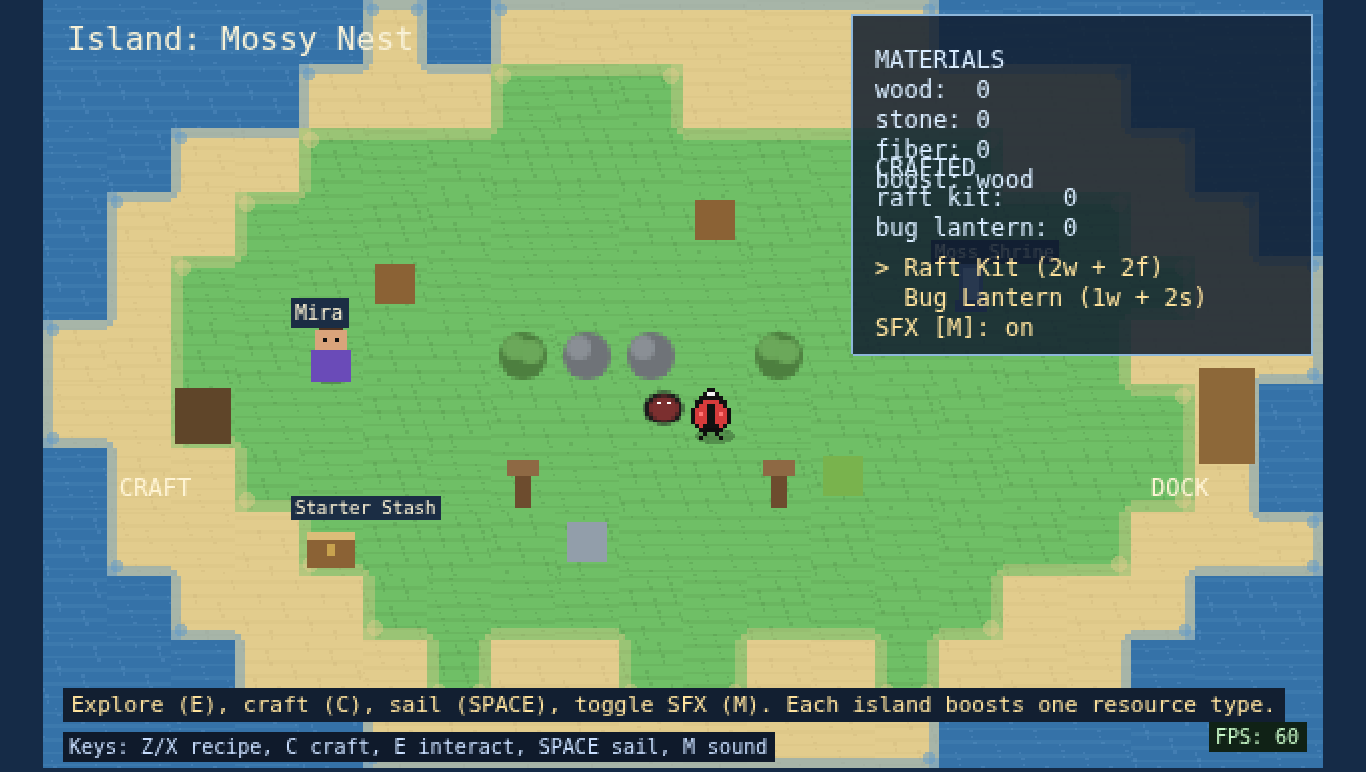
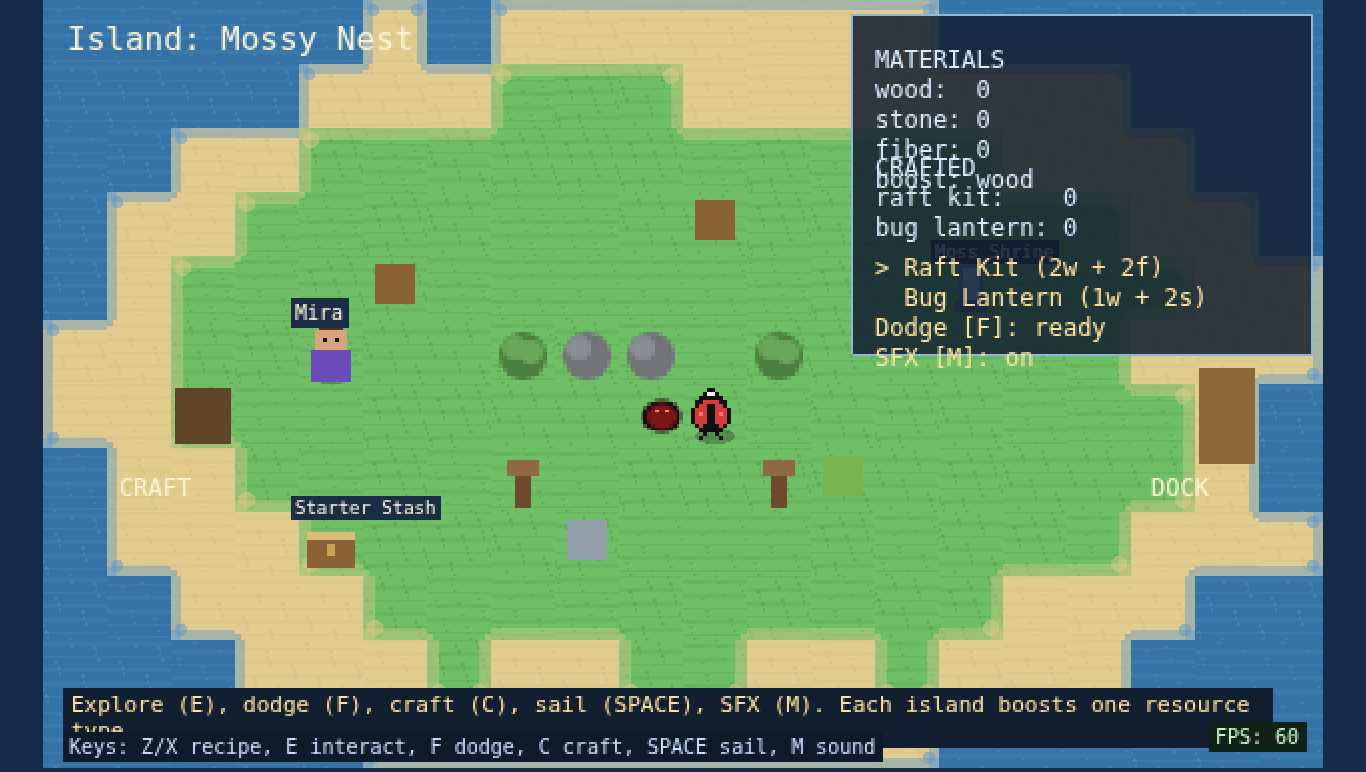
Add beetle telegraphing and player dodge mechanic

Changed region(s): [[0.0307, 0.9016, 0.9531, 0.9948], [0.6457, 0.4041, 0.8302, 0.4974], [0.4612, 0.4974, 0.5227, 0.5596]]

diff --git a/src/main.ts b/src/main.ts
@@ -74,7 +74,7 @@ type SaveData = {
   cameraZoom?: number
 }
 
-type TouchActionKey = 'interact' | 'craft' | 'travel'
+type TouchActionKey = 'interact' | 'craft' | 'travel' | 'dodge'
 type Biome = 'water' | 'beach' | 'grass'
 
 const TILE = 32
@@ -97,6 +97,7 @@ class AdventureScene extends Phaser.Scene {
   private interactKey!: Phaser.Input.Keyboard.Key
   private travelKey!: Phaser.Input.Keyboard.Key
   private craftKey!: Phaser.Input.Keyboard.Key
+  private dodgeKey!: Phaser.Input.Keyboard.Key
   private soundToggleKey!: Phaser.Input.Keyboard.Key
   private nextRecipeKey!: Phaser.Input.Keyboard.Key
   private prevRecipeKey!: Phaser.Input.Keyboard.Key
@@ -118,8 +119,10 @@ class AdventureScene extends Phaser.Scene {
   private npcLabel?: Phaser.GameObjects.Text
   private obstacleSprites: Phaser.Physics.Arcade.Sprite[] = []
   private landmarks: Array<{ def: LandmarkDef; key: string; sprite: Phaser.Physics.Arcade.Sprite; label: Phaser.GameObjects.Text }> = []
-  private encounters: Array<{ def: EncounterDef; sprite: Phaser.Physics.Arcade.Sprite }> = []
+  private encounters: Array<{ def: EncounterDef; sprite: Phaser.Physics.Arcade.Sprite; telegraphUntil: number }> = []
   private slowUntil = 0
+  private dodgeUntil = 0
+  private dodgeCooldownUntil = 0
   private encounterCooldownUntil = 0
 
   private hudPanel!: Phaser.GameObjects.Rectangle
@@ -143,7 +146,7 @@ class AdventureScene extends Phaser.Scene {
   private worldElements: Phaser.GameObjects.GameObject[] = []
 
   private touchMove = new Phaser.Math.Vector2(0, 0)
-  private queuedTouchActions: Record<TouchActionKey, boolean> = { interact: false, craft: false, travel: false }
+  private queuedTouchActions: Record<TouchActionKey, boolean> = { interact: false, craft: false, travel: false, dodge: false }
   private joystickBasePos = new Phaser.Math.Vector2(74, GAME_HEIGHT - 96)
   private joystickPointerId: number | null = null
   private joystickRadius = 38
@@ -320,7 +323,7 @@ class AdventureScene extends Phaser.Scene {
       window.addEventListener('beforeunload', () => this.saveNow())
     }
 
-    this.setStatus('Explore (E), craft (C), sail (SPACE), toggle SFX (M). Each island boosts one resource type.')
+    this.setStatus('Explore (E), dodge (F), craft (C), sail (SPACE), SFX (M). Each island boosts one resource type.')
   }
 
   update() {
@@ -359,12 +362,27 @@ class AdventureScene extends Phaser.Scene {
 
     if (Phaser.Input.Keyboard.JustDown(this.craftKey) || this.consumeTouchAction('craft')) this.tryCraftSelectedRecipe()
 
+    if (Phaser.Input.Keyboard.JustDown(this.dodgeKey) || this.consumeTouchAction('dodge')) this.tryDodge()
+
     if (Phaser.Input.Keyboard.JustDown(this.soundToggleKey)) {
       this.sfxEnabled = !this.sfxEnabled
       this.setStatus(`SFX ${this.sfxEnabled ? 'enabled' : 'muted'} (toggle: M).`)
       if (this.sfxEnabled) this.playSfx([523], 0.04, 0.06, 'square')
       this.saveNow()
     }
+  }
+
+  private tryDodge() {
+    const now = this.time.now
+    if (now < this.dodgeCooldownUntil) {
+      const left = Math.max(0, Math.ceil((this.dodgeCooldownUntil - now) / 100) / 10)
+      this.setStatus(`Dodge recharging (${left}s).`)
+      return
+    }
+
+    this.dodgeUntil = now + 320
+    this.dodgeCooldownUntil = now + 2200
+    this.playSfx([740, 880], 0.05, 0.06, 'square')
   }
 
   private createAudioContext() {
@@ -685,6 +703,7 @@ class AdventureScene extends Phaser.Scene {
     this.interactKey = this.input.keyboard!.addKey(Phaser.Input.Keyboard.KeyCodes.E)
     this.travelKey = this.input.keyboard!.addKey(Phaser.Input.Keyboard.KeyCodes.SPACE)
     this.craftKey = this.input.keyboard!.addKey(Phaser.Input.Keyboard.KeyCodes.C)
+    this.dodgeKey = this.input.keyboard!.addKey(Phaser.Input.Keyboard.KeyCodes.F)
     this.soundToggleKey = this.input.keyboard!.addKey(Phaser.Input.Keyboard.KeyCodes.M)
     this.nextRecipeKey = this.input.keyboard!.addKey(Phaser.Input.Keyboard.KeyCodes.X)
     this.prevRecipeKey = this.input.keyboard!.addKey(Phaser.Input.Keyboard.KeyCodes.Z)
@@ -763,6 +782,7 @@ class AdventureScene extends Phaser.Scene {
     makeActionButton('SAIL', 0x397aab, 'travel')
     makeActionButton('E', 0x3d8e4c, 'interact')
     makeActionButton('C', 0x916340, 'craft')
+    makeActionButton('D', 0x7f3db8, 'dodge')
   }
 
   private updateTouchMove(pointerX: number, pointerY: number) {
@@ -840,7 +860,7 @@ class AdventureScene extends Phaser.Scene {
       wordWrap: { width: GAME_WIDTH - 20 },
     }).setDepth(102))
 
-    this.keyboardHintText = this.trackUi(this.add.text(10, GAME_HEIGHT - 18, 'Keys: Z/X recipe, C craft, E interact, SPACE sail, M sound', {
+    this.keyboardHintText = this.trackUi(this.add.text(10, GAME_HEIGHT - 18, 'Keys: Z/X recipe, E interact, F dodge, C craft, SPACE sail, M sound', {
       fontFamily: 'monospace',
       fontSize: '10px',
       color: '#c9dfff',
@@ -1015,13 +1035,32 @@ class AdventureScene extends Phaser.Scene {
   private tickEncounters() {
     const now = this.time.now
 
-    this.encounters.forEach(({ sprite }) => {
+    this.encounters.forEach((encounter) => {
+      const { sprite } = encounter
       const danger = Phaser.Math.Distance.Between(this.player.x, this.player.y, sprite.x, sprite.y)
+
+      if (danger < 38 && now >= encounter.telegraphUntil && now >= this.encounterCooldownUntil) {
+        encounter.telegraphUntil = now + 360
+        sprite.setTint(0xff7f7f)
+        this.playSfx([280], 0.028, 0.05, 'square')
+      } else if (now >= encounter.telegraphUntil) {
+        sprite.clearTint()
+      }
+
       if (danger >= 20 || now < this.encounterCooldownUntil) return
 
       this.encounterCooldownUntil = now + 1800
-      this.slowUntil = now + 2600
 
+      if (now < this.dodgeUntil) {
+        this.inventory.fiber += 1
+        this.setStatus('Perfect dodge! +1 fiber.')
+        this.playSfx([660, 880], 0.05, 0.07, 'triangle')
+        this.updateHud()
+        this.saveNow()
+        return
+      }
+
+      this.slowUntil = now + 2600
       const lootable = (Object.keys(this.inventory) as ResourceType[]).filter((k) => this.inventory[k] > 0)
       if (lootable.length > 0) {
         const stolen = Phaser.Utils.Array.GetRandom(lootable)
@@ -1045,6 +1084,8 @@ class AdventureScene extends Phaser.Scene {
     this.createTerrainTextures(island.palette)
     this.buildIslandTiles(island)
     this.slowUntil = 0
+    this.dodgeUntil = 0
+    this.dodgeCooldownUntil = 0
     this.encounterCooldownUntil = 0
 
     this.solidColliders.forEach((c) => c.destroy())
@@ -1136,7 +1177,7 @@ class AdventureScene extends Phaser.Scene {
       const sprite = this.trackWorld(this.physics.add.sprite(ex, ey, 'encounter-beetle').setDepth(31))
       sprite.setScale(1.8)
       sprite.body?.setAllowGravity(false)
-      this.encounters.push({ def: encounterDef, sprite })
+      this.encounters.push({ def: encounterDef, sprite, telegraphUntil: 0 })
 
       this.tweens.add({
         targets: sprite,
@@ -1320,7 +1361,8 @@ class AdventureScene extends Phaser.Scene {
   }
 
   private movePlayer() {
-    const speed = this.time.now < this.slowUntil ? 92 : 132
+    const now = this.time.now
+    const speed = now < this.dodgeUntil ? 214 : now < this.slowUntil ? 92 : 132
     let vx = 0
     let vy = 0
 
@@ -1534,6 +1576,8 @@ class AdventureScene extends Phaser.Scene {
         .join(' + ')
       return `${marker} ${r.label} (${cost})`
     })
+    const dodgeReady = this.time.now >= this.dodgeCooldownUntil
+    recipeLines.push(`Dodge [F]: ${dodgeReady ? 'ready' : 'cooldown'}`)
     recipeLines.push(`SFX [M]: ${this.sfxEnabled ? 'on' : 'off'}`)
     this.recipeText.setText(recipeLines)
   }
